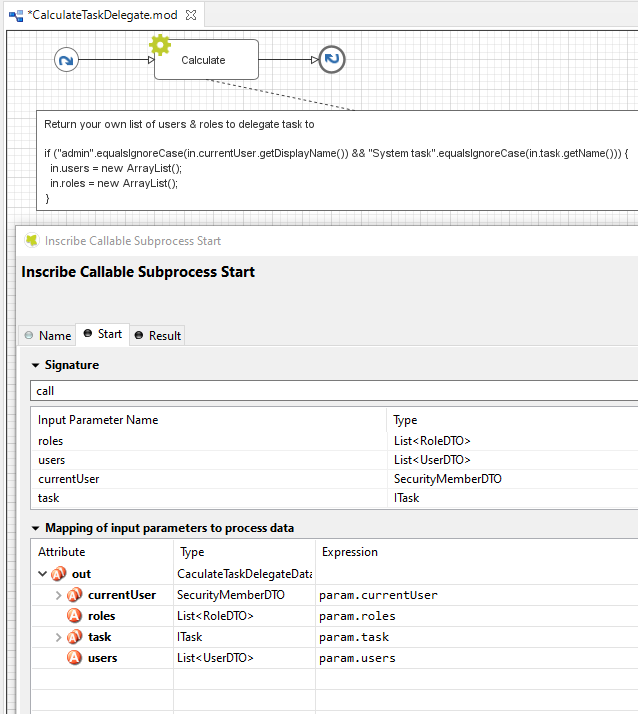
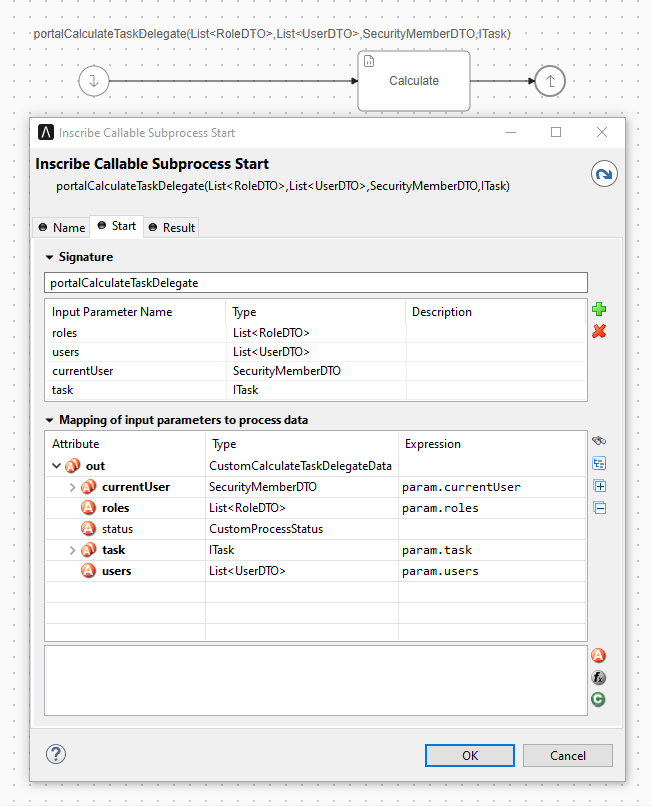
IVYPORTAL-15489: Custom Task Delegate & Document processes Customization Support - updated custom task delegation document

Changed region(s): [[0.0, 0.0, 1.0, 1.0], [0.8934, 0.3389, 0.9232, 0.493], [0.6254, 0.3697, 0.7445, 0.4006]]

diff --git a/Documentation/portal-guide/source/portal-developer-guide/customization/task-widget.rst b/Documentation/portal-guide/source/portal-developer-guide/customization/task-widget.rst
@@ -243,27 +243,47 @@ How To Override Export Feature
 
 .. _customization-task-widget-custom-task-delegate:
 
-Custom Task Delegate
---------------------
+Customize task delegation
+-------------------------
 
-Portal allows to customize the list of users and roles that a task can
-be delegated to. This can be done following these steps:
+To customize the list of users and roles that a task can be delegated to,
+create a callable subprocess with:
 
-#. Introduce an |ivy| project which has ``portal`` as a
-   required library and its own ``PortalStart`` process. Refer to step
-   1, 2, 3, 4 in :ref:`override task widget's
-   UI <customization-task-widget-how-to-overide-ui>` guide.
+**Signature**: portalCalculateTaskDelegate
 
-#. In your project, override the callable subprocess
-   ``CalculateTaskDelegate``
++--------------------+-----------------------------------------------------------+---------------+
+| Name               | Type                                                      | Note          |
++====================+===========================================================+===============+
+| **Parameter**                                                                                  |
++--------------------+-----------------------------------------------------------+---------------+
+| roles              | java.util.List<com.axonivy.portal.components.dto.RoleDTO> |               |
++--------------------+-----------------------------------------------------------+---------------+
+| users              | java.util.List<com.axonivy.portal.components.dto.UserDTO> |               |
++--------------------+-----------------------------------------------------------+---------------+
+| currentUser        | com.axonivy.portal.components.dto.SecurityMemberDTO       |               |
++--------------------+-----------------------------------------------------------+---------------+
+| task               | ch.ivyteam.ivy.workflow.ITask                             |               |
++--------------------+-----------------------------------------------------------+---------------+
+| **Result**                                                                                     |
++--------------------+-----------------------------------------------------------+---------------+
+| status             | java.lang.String                                          | OK or SKIP    |
++--------------------+-----------------------------------------------------------+---------------+
+| roles              | java.util.List<com.axonivy.portal.components.dto.RoleDTO> |               |
++--------------------+-----------------------------------------------------------+---------------+
+| users              | java.util.List<com.axonivy.portal.components.dto.UserDTO> |               |
++--------------------+-----------------------------------------------------------+---------------+
 
-   |calculate-task-delegate|
+|calculate-task-delegate|
 
-#. The callable subprocess data contains the current user
-   ``in.currentUser`` and the current task to be delegated ``in.task``.
-   The lists ``in.users`` and ``in.roles`` contain all possible users
-   and roles that the task can be delegated to. Modify those two to have
-   your own delegate list.
+The parameters of the callable subprocess data contain the current user
+``in.currentUser`` and the current task to be delegated ``in.task``.
+The lists ``in.users`` and ``in.roles`` contain all possible users
+and roles that the task can be delegated to. Modify those two to have
+your delegate list.
+
+The Portal will call subprocesses with the above details in the same security context then combine all
+``roles`` and ``users`` from the results into the available users and roles whoe can delegate the task.
+To skip combine result from your callable subprocess, please set ``status`` to ``"SKIP"``.
 
 .. _customization-task-widget-responsive-layout:
 
